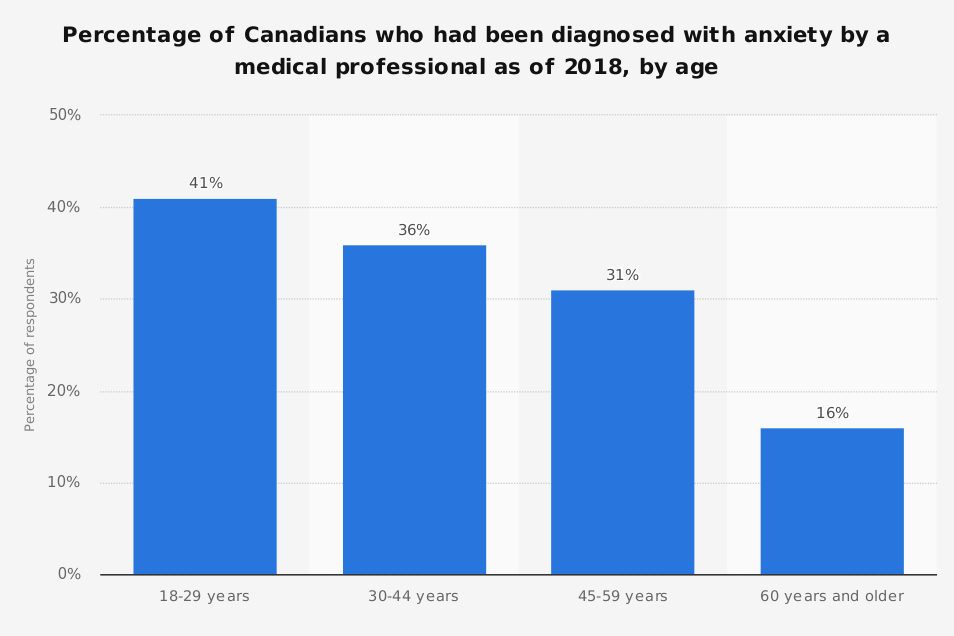
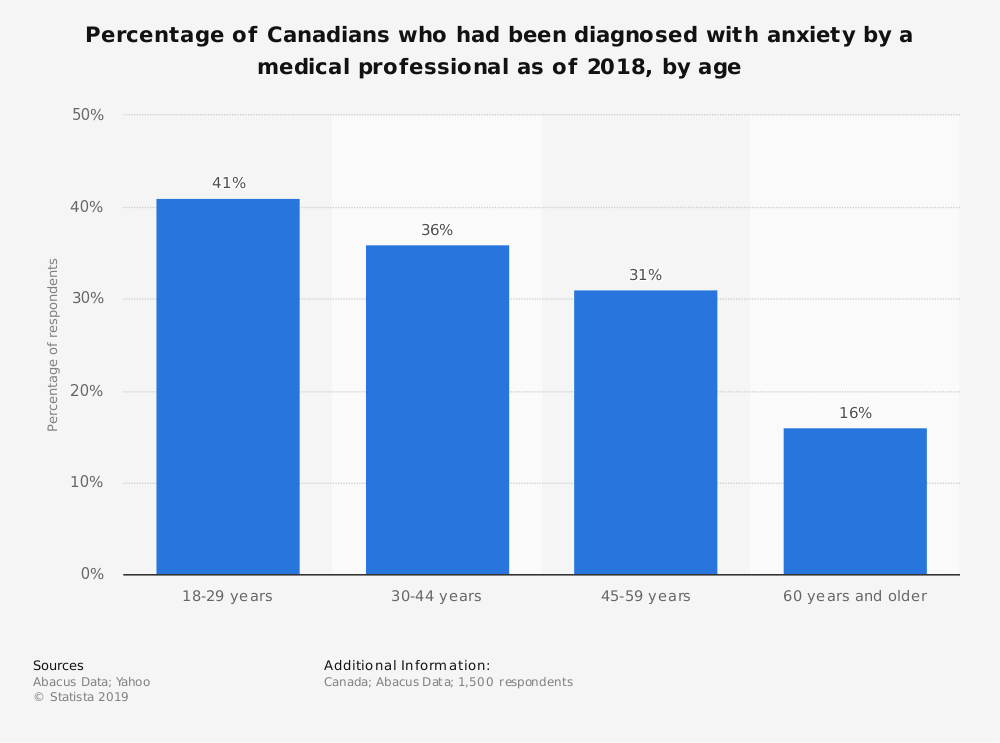
done updish img

diff --git a/updish.html b/updish.html
@@ -4,7 +4,6 @@
         <meta charset="UTF-8">
         <meta name="viewport" content="width=device-width, initial-scale=1">
 
-        <link rel="icon" href="img/favicon.png" type="image/png" sizes="16x16">
         <link href="https://fonts.googleapis.com/css2?family=Rubik:wght@400;500;600;700&display=swap" rel="stylesheet">
         <link rel="stylesheet" href="https://use.typekit.net/uld5upz.css">
         <link rel="stylesheet" href="css/style.css">
@@ -60,7 +59,7 @@
                     <!-- Starting Point -->
                     <h3>Finding a Starting Point</h3>
                     <p><a href="https://www.technomic.com/newsroom/consumers-demand-crave-able-flavors-customization" target="_blank">Customization is a growing trend</a> in the food industry, leading to more restaurants where you can modify your meal’s ingredients or even build it from scratch. I came up with the project’s concept after noticing how ordering at such restaurants is baffling for many people. I reckoned it’s even harder for socially anxious individuals, so I wanted to build a platform that tackles this problem.</p>
-                    <figure>
+                    <figure class="md">
                         <picture>
                             <source srcset="img/updish/graph-restaurant.webp" type="image/webp">
                             <img src="img/updish/graph-restaurant.png" alt="bar graph restaurants">
@@ -85,13 +84,19 @@
 
                     <!-- User Research -->
                     <h3>Researching the Users</h3>
-                    <figure>
-                        <img src="img/updish/graph-age.png" alt="bar graph anxiety age" width="954" height="636" class="sm">
+                    <figure class="md">
+                        <picture>
+                            <source srcset="img/updish/graph-age.webp" type="image/webp">
+                            <img src="img/updish/graph-age.png" alt="bar graph anxiety age">
+                        </picture>
                         <figcaption>Source: <a href="https://www.statista.com/statistics/978438/anxiety-disorders-by-age-canada/" target="_blank">Statista</a></figcaption>
                     </figure>
                     <p>I researched social anxiety to understand this mental health condition better and narrow down my users further. I found that it’s most prevalent in adults aged 18 to 29, while the sex ratio is about the same.</p>
-                    <figure>
-                        <img src="img/updish/graph-gender.png" alt="bar graph anxiety gender" width="954" height="636" class="sm">
+                    <figure class="md">
+                        <picture>
+                            <source srcset="img/updish/graph-gender.webp" type="image/webp">
+                            <img src="img/updish/graph-gender.png" alt="bar graph anxiety gender">
+                        </picture>
                         <figcaption>Source: <a href="https://www.statista.com/statistics/978423/anxiety-disorders-by-gender-canada/" target="_blank">Statista</a></figcaption>
                     </figure>
                     <p>Although everyone gets anxious, people with social anxiety disorder or social phobia have this intense fear of <a href="https://www.camh.ca/en/health-info/mental-illness-and-addiction-index/social-anxiety-disorder" target="_blank">“being humiliated or scrutinized in social situations;”</a> their anxiety is persistent and severe to the point where it causes significant impairment in their daily lives. <strong>Something as nonchalant as ordering at a restaurant can be a distressful experience for them,</strong> making them the perfect audience for my platform.</p>
@@ -100,14 +105,14 @@
                     <h3>On the Hunt for Competitors</h3>
                     <p>The obvious method for learning how to order at any restaurant is by asking their employees directly. As my interview insights indicated, however, it’s not always an adequate solution—and it’s definitely not feasible for the majority of my target users.</p>
                     <p>You can always find suggestions online on <em>what</em> to order at build-your-own-meal restaurants, but it’s tricky to find useful information on <em>how</em> to order. A platform that focuses on providing those instructions doesn’t exist—although the closest alternative is <a href="https://www.wikihow.com/Main-Page" target="_blank">wikiHow</a>.</p>
-                    <figure>
+                    <figure class="md">
                         <picture>
                             <source srcset="img/updish/wikihow.webp" type="image/webp">
                             <img src="img/updish/wikihow.png" alt="wikiHow analysis">
                         </picture>
                         <figcaption>Analyzing wikiHow’s <a href="https://www.wikihow.com/Order-at-Starbucks" target="_blank">“How to Order at Starbucks”</a> guide.</figcaption>
                     </figure>
-                    <p>I analyzed relevant wikiHow guides to assess their usefulness, but I found that they’re vague, lengthy, and limited to only a few restaurants. Improving the content by rewriting them might solve these concerns, but there are still requirements from my users that wikiHow can’t implement.</p>
+                    <p><strong>I analyzed relevant wikiHow guides to assess their usefulness, but I found that they’re vague, lengthy, and limited to only a few restaurants.</strong> Improving the content by rewriting them might solve these concerns, but there are still requirements from my users that wikiHow can’t implement.</p>
                 </section>
 
                 <!-- Define -->
@@ -120,7 +125,7 @@
                         <p><em>People with social anxiety go through an overwhelming experience when ordering in person at build-your-own-meal restaurants because they don’t have a comfortable way to learn how to order properly at such places.</em></p>
                     </blockquote>
                     <p>One could argue that other approaches such as mobile ordering exist. Yes, people with social anxiety can still buy at build-your-own-meal restaurants without interacting with the employees—but at the end of the day, they still have that stress induced by the idea of talking to someone. I believe that by providing them with a better idea of what to do, they’ll be able to order comfortably right from the start. After all, social anxiety is manageable.</p>
-                    <p>My objective was to create a learning platform on the seemingly complex workings of build-your-own-meal restaurants. I envisioned this solution as something like wikiHow or Wikipedia—though more interactive and not so text-heavy.</p>
+                    <p><strong>My objective was to create a learning platform on the seemingly complex workings of build-your-own-meal restaurants.</strong> I envisioned this solution as something like wikiHow or Wikipedia—though more interactive and not so text-heavy.</p>
                     <p>Everyone has browsed those platforms on the Web at one point instead of downloading the apps (Did you even know they had apps?). I expected my users would do the same, with them repeatedly referencing my platform until they feel well-informed enough to not return for a long time. Thus, <strong>it made sense to create a <em>website</em> instead of an app.</strong></p>
 
                     <!-- Persona -->
@@ -150,8 +155,11 @@
                     </figure>
                     <p>The platform has two primary functions: 1) inform users about the customizable menu items, and 2) teach them the ordering process at build-your-own-food restaurants. To figure out how it can accomplish these, my team and I listed all the requirements that will help users attain that comfortable ordering experience, then grouped the points that fall under a general pattern.</p>
 
-                    <figure>
-                        <img src="img/updish/stories.jpg" alt="UpDish user stories" width="3024" height="4032" class="sm">
+                    <figure class="sm">
+                        <picture>
+                            <source srcset="img/updish/stories.webp" type="image/webp">
+                            <img src="img/updish/stories.jpg" alt="UpDish user stories">
+                        </picture>
                         <figcaption>User stories for UpDish.</figcaption>
                     </figure>
 
@@ -169,7 +177,10 @@
                     <!-- Sketching -->
                     <h3>Sketches Galore</h3>
                     <figure>
-                        <img src="img/updish/sketches.jpg" alt="UpDish sketches" width="2048" height="1365" class="md">
+                        <picture>
+                            <source srcset="img/updish/sketches.webp" type="image/webp">
+                            <img src="img/updish/sketches.jpg" alt="UpDish sketches">
+                        </picture>
                         <figcaption>Some of my initial rough sketches for the early version of the wireframes.</figcaption>
                     </figure>
                     <p>While referencing the user flow diagram, I began sketching ideas of the platform’s interfaces on paper.</p>
@@ -181,7 +192,10 @@
                     <h3>Wireframes and Prototypes</h3>
                     <p>I built the wireframes using Sketch and the prototype on InVision.</p>
                     <figure>
-                        <img src="img/updish/wireframes.png" alt="UpDish wireframes" width="1536" height="939" class="md">
+                        <picture>
+                            <source srcset="img/updish/wireframes.webp" type="image/webp">
+                            <img src="img/updish/wireframes.jpg" alt="UpDish wireframes">
+                        </picture>
                         <figcaption>Sample wireframes of the early version of UpDish.</figcaption>
                     </figure>
                     <p>The website’s critical component is the writing itself. <strong>I wrote real copy instead of putting dummy text since I wanted future testers to grasp the platform’s purpose by feeling like they’re actually learning something.</strong> My past experience as a barista trainer at Starbucks led to my using the coffeehouse chain for the sample guide.</p>
@@ -233,13 +247,13 @@
 
                     <h3>Typography</h3>
                     <figure>
-                        <img src="img/updish/font-tisa.png" alt="FF Tisa Sans font" width="830" height="292" class="md">
+                        <picture>
+                            <source srcset="img/updish/fonts.webp" type="image/webp">
+                            <img src="img/updish/fonts.jpg" alt="UpDish typefaces">
+                        </picture>
                     </figure>
-                    <p>For the primary typeface used for the headings, I chose FF Tisa Sans, of which the absence of serifs gives it that contemporary look. Best of all, it has this friendly-looking personality, achieved by its slightly rounded strokes and terminals.</p>
-                    <figure>
-                        <img src="img/updish/font-pragmatica.png" alt="Pragmatica" width="784" height="288" class="md">
-                    </figure>
-                    <p>For the secondary typeface used for the body text, I chose Pragmatica, a neutral typeface that harmonizes with my above choice. Both share the same x-height, while many of their glyphs are identical. Pragmatica’s rather stoical characteristic really brings out FF Tisa Sans’ overall friendly personality.</p>
+                    <p>For the primary typeface used for the headings, <strong>I chose FF Tisa Sans for its friendly-looking personality,</strong> achieved by its slightly rounded strokes and terminals.</p>
+                    <p>For the secondary typeface used for the body text, <strong>I chose Pragmatica, a neutral typeface that harmonizes with my above choice.</strong> Both share the same x-height, while many of their glyphs are identical. Pragmatica’s rather stoical personality really brings out FF Tisa Sans’ overall friendly characteristic.</p>
                 </section>
 
                 <!-- Reflection -->

diff --git a/about.html b/about.html
@@ -4,7 +4,6 @@
         <meta charset="UTF-8">
         <meta name="viewport" content="width=device-width, initial-scale=1">
 
-        <link rel="icon" href="img/favicon.png" type="image/png" sizes="16x16">
         <link href="https://fonts.googleapis.com/css2?family=Rubik:wght@400;500;600;700&display=swap" rel="stylesheet">
         <link rel="stylesheet" href="https://use.typekit.net/uld5upz.css">
         <link rel="stylesheet" href="css/style.css">

diff --git a/homework.html b/homework.html
@@ -4,7 +4,6 @@
         <meta charset="UTF-8">
         <meta name="viewport" content="width=device-width, initial-scale=1">
 
-        <link rel="icon" href="img/favicon.png" type="image/png" sizes="16x16">
         <link href="https://fonts.googleapis.com/css2?family=Rubik:wght@400;500;600;700&display=swap" rel="stylesheet">
         <link rel="stylesheet" href="https://use.typekit.net/uld5upz.css">
         <link rel="stylesheet" href="css/style.css">

diff --git a/index.html b/index.html
@@ -4,7 +4,6 @@
         <meta charset="UTF-8">
         <meta name="viewport" content="width=device-width, initial-scale=1">
 
-        <link rel="icon" href="img/favicon.png" type="image/png" sizes="16x16">
         <link href="https://fonts.googleapis.com/css2?family=Rubik:wght@400;500;600;700&display=swap" rel="stylesheet">
         <link rel="stylesheet" href="https://use.typekit.net/uld5upz.css">
         <link rel="stylesheet" href="css/style.css">

diff --git a/storyworks.html b/storyworks.html
@@ -4,7 +4,6 @@
         <meta charset="UTF-8">
         <meta name="viewport" content="width=device-width, initial-scale=1">
 
-        <link rel="icon" href="img/favicon.png" type="image/png" sizes="16x16">
         <link href="https://fonts.googleapis.com/css2?family=Rubik:wght@400;500;600;700&display=swap" rel="stylesheet">
         <link rel="stylesheet" href="https://use.typekit.net/uld5upz.css">
         <link rel="stylesheet" href="css/style.css">

diff --git a/css/style.css b/css/style.css
@@ -308,11 +308,6 @@ em {
 img {
   width: 100%;
   height: auto;
-  /*
-  &.xs { width: 40%; }
-  &.sm { width: 65%; }
-  &.md { width: 75%; }
-  */
 }
 
 figure {
@@ -322,6 +317,12 @@ figure {
   line-height: 1.4em;
   padding-bottom: 1.5rem;
   text-align: center;
+}
+figure.sm {
+  padding: 0 10% 1.5rem;
+}
+figure.md {
+  padding: 0 5% 1.5rem;
 }
 figure figcaption {
   margin-top: 0.75rem;
